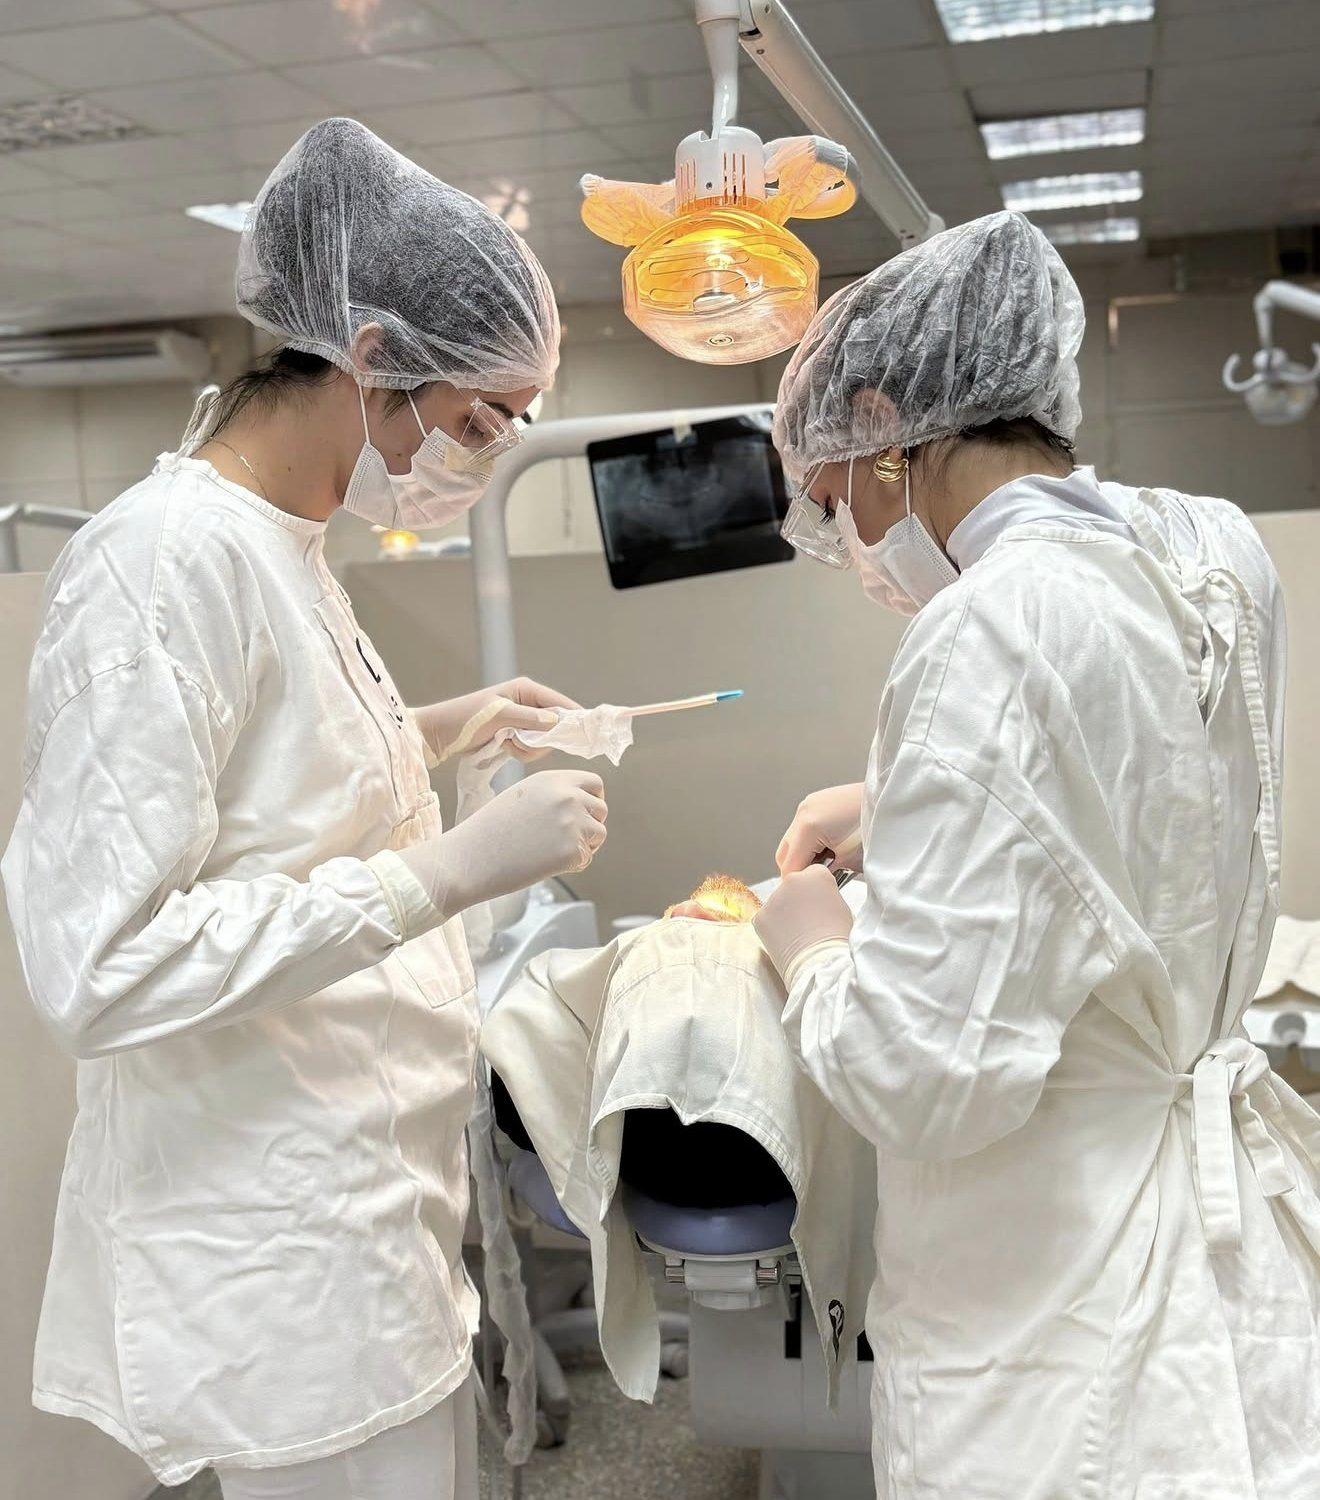
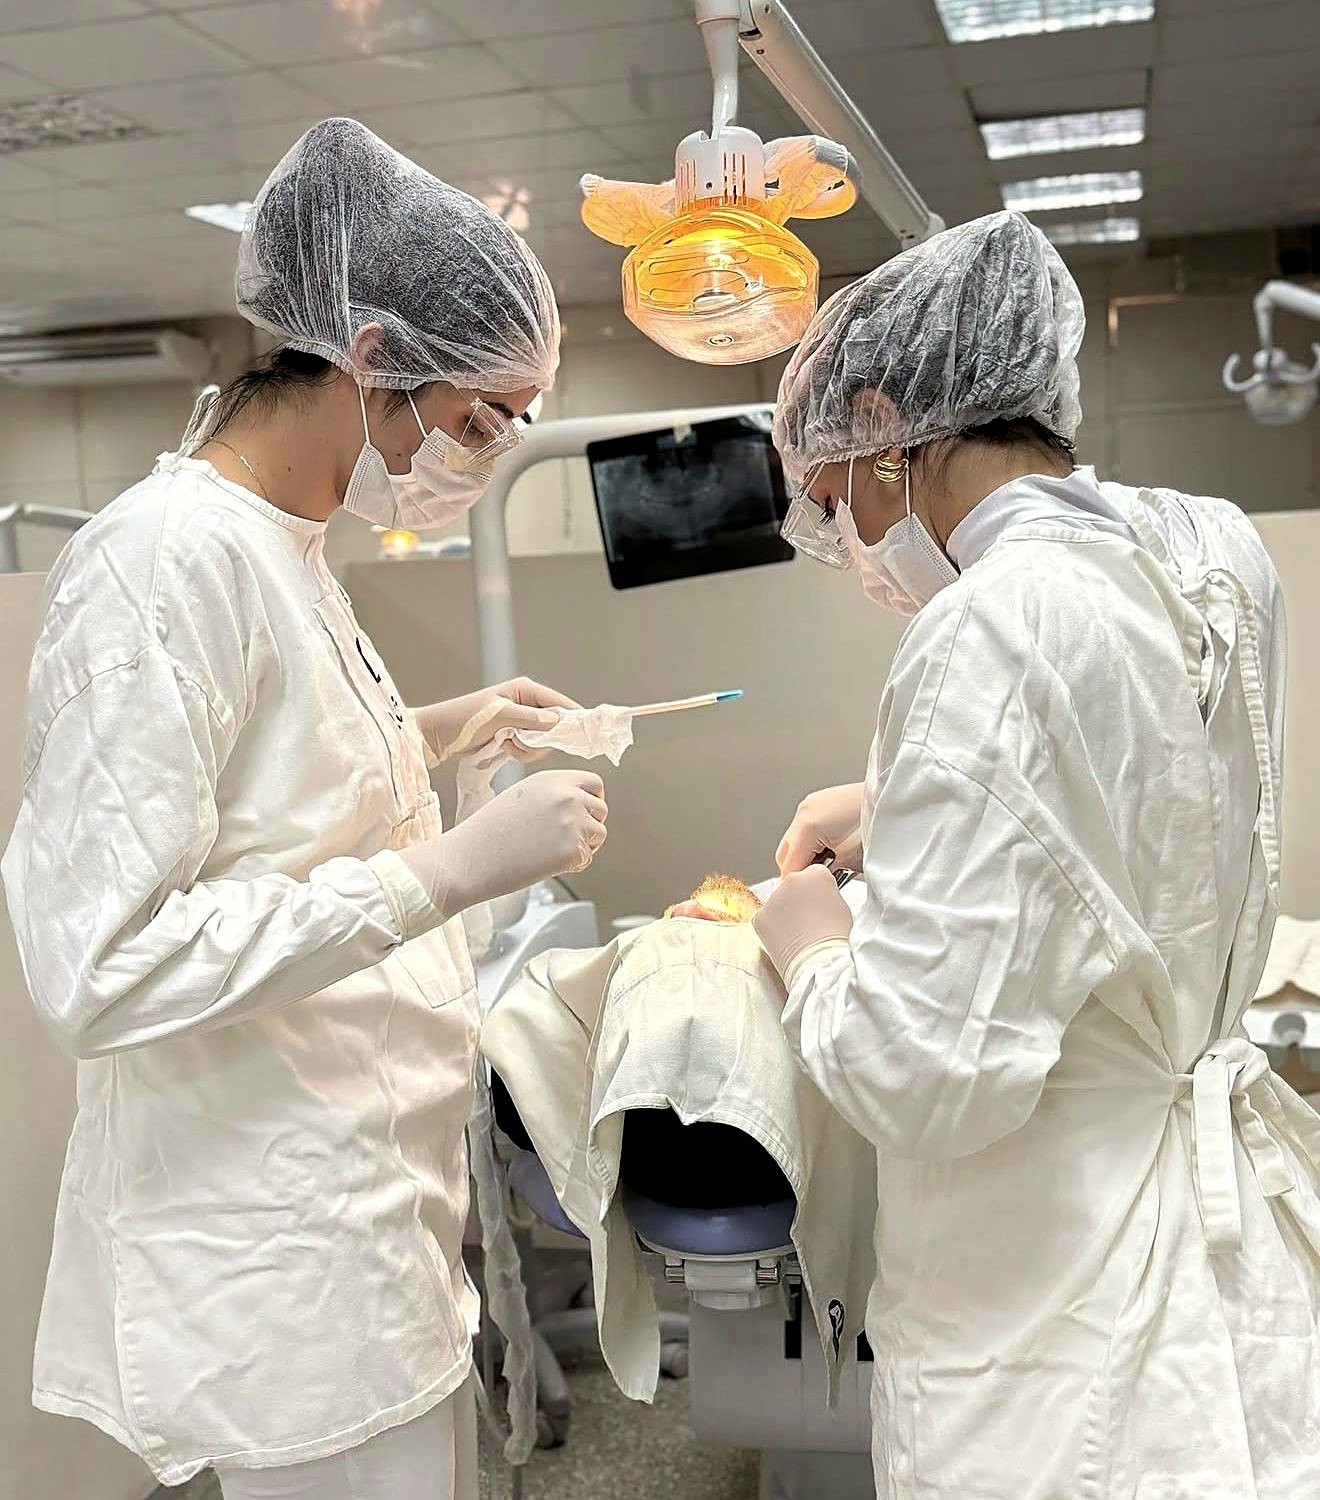
Site Vanessa Marinho: novas fotos tratadas, galeria antes/depois e composições
Claude-Session: https://claude.ai/code/session_01AGZcB6wQbXRaEMirssouDN

Changed region(s): [[0.1864, 0.092, 0.4348, 0.3067], [0.5902, 0.1533, 0.8076, 0.368], [0.528, 0.1227, 0.5591, 0.1533]]

diff --git a/sites/vanessa-marinho/index.html b/sites/vanessa-marinho/index.html
@@ -32,7 +32,7 @@
   *{box-sizing:border-box;margin:0;padding:0}
   html{scroll-behavior:smooth}
   body{font-family:var(--sans);color:var(--ink);background:var(--paper);line-height:1.6;font-weight:400;-webkit-font-smoothing:antialiased;overflow-x:hidden}
-  img{display:block;max-width:100%}
+  img{display:block;max-width:100%;height:auto}
   a{color:inherit}
   .wrap{max-width:var(--max);margin:0 auto;padding:0 24px}
   .eyebrow{font-size:.72rem;letter-spacing:.24em;text-transform:uppercase;font-weight:600;color:var(--brown)}
@@ -97,7 +97,7 @@
   .philo-photo::after{content:"";position:absolute;inset:22px -22px -22px 22px;border:1px solid var(--brown);z-index:-1}
 
   /* PROCEDIMENTOS */
-  .procs{background:var(--ink);color:#fff}
+  .procs{background:var(--ink);color:#fff;overflow:hidden}
   .procs .eyebrow{color:var(--sand)}
   .section-head{display:flex;justify-content:space-between;align-items:end;gap:30px;margin-bottom:56px;flex-wrap:wrap}
   .procs .lead{color:rgba(255,255,255,.65)}
@@ -108,12 +108,29 @@
   .proc h3{font-size:2rem;margin:14px 0 12px}
   .proc p{color:rgba(255,255,255,.65);font-size:.95rem}
 
+  .feature{display:grid;grid-template-columns:1.05fr .95fr;gap:70px;align-items:center;margin-bottom:80px}
+  .feature-media{position:relative}
+  .feature-media .big{width:100%;aspect-ratio:4/5;object-fit:cover;object-position:60% 50%;-webkit-mask-image:radial-gradient(120% 95% at 60% 55%,#000 55%,transparent 100%);mask-image:radial-gradient(120% 95% at 60% 55%,#000 55%,transparent 100%)}
+  .feature-media .small{position:absolute;width:42%;aspect-ratio:1;object-fit:cover;right:-6%;bottom:-8%;border:6px solid var(--ink);box-shadow:0 20px 50px rgba(0,0,0,.5)}
+  .feature-media .label{position:absolute;left:0;top:8%;font-family:var(--serif);font-style:italic;font-size:1.1rem;color:var(--sand);writing-mode:vertical-rl;transform:rotate(180deg);letter-spacing:.08em}
+  .feature h2{margin:16px 0 22px}
+
   /* RESULTADO */
   .result-grid{display:grid;grid-template-columns:.9fr 1.1fr;gap:70px;align-items:center}
-  .ba{position:relative;overflow:hidden;background:#ddd;aspect-ratio:1128/1450;max-width:520px}
-  .ba img{width:100%;height:100%;object-fit:cover;object-position:center 70%}
-  .ba-labels{position:absolute;left:0;right:0;bottom:0;display:grid;grid-template-columns:1fr 1fr;font-size:.7rem;letter-spacing:.2em;text-transform:uppercase;font-weight:600;color:#fff}
-  .ba-labels span{padding:10px 14px;background:linear-gradient(transparent,rgba(0,0,0,.45))}
+  .cases{max-width:560px;width:100%}
+  .case-tabs{display:flex;gap:8px;flex-wrap:wrap;margin-bottom:16px}
+  .case-tabs button{font:inherit;font-size:.8rem;font-weight:500;padding:9px 16px;border-radius:999px;border:1px solid var(--line);background:transparent;color:var(--ink);cursor:pointer;transition:background .2s,color .2s}
+  .case-tabs button[aria-selected=true]{background:var(--ink);color:#fff;border-color:var(--ink)}
+  .ba{position:relative;overflow:hidden;background:#222;aspect-ratio:1320/1079;user-select:none;transition:aspect-ratio .3s;touch-action:pan-y;--p:50%}
+  .ba img{position:absolute;inset:0;width:100%;height:100%;object-fit:cover;pointer-events:none}
+  .ba .before{clip-path:inset(0 calc(100% - var(--p)) 0 0)}
+  .ba .line{position:absolute;top:0;bottom:0;left:var(--p);width:2px;margin-left:-1px;background:#fff;pointer-events:none}
+  .ba .knob{position:absolute;top:50%;left:var(--p);width:46px;height:46px;margin:-23px 0 0 -23px;border-radius:50%;background:#fff;display:grid;place-items:center;box-shadow:0 6px 20px rgba(0,0,0,.3);pointer-events:none;color:var(--ink)}
+  .ba input{position:absolute;inset:0;width:100%;height:100%;opacity:0;cursor:ew-resize;margin:0}
+  .ba .tag{position:absolute;top:14px;font-size:.66rem;letter-spacing:.2em;text-transform:uppercase;font-weight:600;color:#fff;background:rgba(0,0,0,.35);backdrop-filter:blur(6px);padding:6px 10px;pointer-events:none}
+  .ba .tag.l{left:14px}.ba .tag.r{right:14px}
+  .case-cap{display:flex;justify-content:space-between;gap:12px;font-size:.82rem;color:var(--muted);margin-top:12px}
+  .case-cap b{font-family:var(--serif);font-size:1.25rem;font-weight:400;color:var(--ink)}
   .result blockquote{font-family:var(--serif);font-size:clamp(2rem,4vw,3rem);font-weight:300;line-height:1.1;margin:18px 0 24px}
   .result blockquote i{color:var(--brown)}
   .disclaimer{font-size:.78rem;color:var(--muted);margin-top:22px;border-left:2px solid var(--sand);padding-left:12px}
@@ -128,9 +145,11 @@
 
   /* SOBRE */
   .about-grid{display:grid;grid-template-columns:1fr 1fr;gap:70px;align-items:center}
-  .about-photos{max-width:520px}
+  .about-photos{position:relative;max-width:520px;padding:0 18% 12% 0}
   .about-photos img{width:100%;object-fit:cover}
-  .about-photos .a{aspect-ratio:4/5}
+  .about-photos .a{aspect-ratio:4/5;object-position:50% 20%}
+  .about-photos .b{position:absolute;right:0;bottom:0;width:46%;aspect-ratio:4/5;border:6px solid var(--paper);box-shadow:0 20px 40px rgba(0,0,0,.18)}
+  .about-photos figcaption{position:absolute;left:0;bottom:0;max-width:48%}
   .about-photos figcaption{font-size:.75rem;color:var(--muted);margin-top:8px}
   .about p{margin-bottom:18px;font-size:1.05rem}
   .creds{list-style:none;margin-top:28px;border-top:1px solid var(--line)}
@@ -183,7 +202,9 @@
     .step-grid{grid-template-columns:1fr 1fr}
     .philo-photo{max-width:480px}
     .philo-photo::after{inset:16px -12px -16px 12px}
-    .ba{margin:0 auto}
+    .cases{margin:0 auto}
+    .feature{grid-template-columns:1fr;gap:56px}
+    .feature-media{max-width:520px}
     .nav-links{position:fixed;inset:74px 0 auto;background:rgba(15,14,13,.97);flex-direction:column;gap:0;padding:10px 24px 24px;display:none}
     .nav-links.open{display:flex}
     .nav-links li{width:100%;border-bottom:1px solid rgba(255,255,255,.08)}
@@ -276,12 +297,17 @@
   <!-- PROCEDIMENTOS -->
   <section class="procs" id="procedimentos">
     <div class="wrap">
-      <div class="section-head reveal">
-        <div>
+      <div class="feature">
+        <figure class="feature-media reveal">
+          <span class="label">Rinomodelação</span>
+          <img class="big" src="img/rino-arte.jpg" alt="Perfil de paciente após rinomodelação" loading="lazy" width="1320" height="1476">
+          <img class="small" src="img/labios-detalhe.jpg" alt="Lábios após preenchimento labial" loading="lazy" width="1320" height="1233">
+        </figure>
+        <div class="reveal">
           <span class="eyebrow">Procedimentos</span>
-          <h2 style="margin-top:16px">Detalhes que mudam<br>a forma como você<br>enxerga o seu perfil.</h2>
+          <h2>Detalhes que mudam a forma como você enxerga o seu perfil.</h2>
+          <p class="lead">E eles podem ser mais sutis do que você imagina. Resultados que acompanham os seus traços sem disputar atenção com eles — cada protocolo é planejado de forma individual.</p>
         </div>
-        <p class="lead">Resultados sutis, que acompanham os seus traços sem disputar atenção com eles. Cada protocolo é planejado de forma individual.</p>
       </div>
       <div class="proc-grid">
         <article class="proc reveal"><span class="n">01</span><h3>Rinomodelação</h3><p>Ajuste do dorso e da ponta do nariz com ácido hialurônico, sem cortes, para um perfil mais harmônico.</p></article>
@@ -297,16 +323,28 @@
   <!-- RESULTADOS -->
   <section class="result" id="resultados">
     <div class="wrap result-grid">
-      <figure class="ba reveal">
-        <img src="img/rino-antes-depois.jpg" alt="Antes e depois de rinomodelação realizada pela Dra. Vanessa Marinho" loading="lazy" width="1320" height="2339">
-        <div class="ba-labels"><span>Antes</span><span>Depois</span></div>
-      </figure>
+      <div class="cases reveal">
+        <div class="case-tabs" role="tablist" aria-label="Casos">
+          <button role="tab" aria-selected="true" data-case="0">Rinomodelação</button>
+          <button role="tab" aria-selected="false" data-case="1">Rinomodelação II</button>
+          <button role="tab" aria-selected="false" data-case="2">Lábios</button>
+        </div>
+        <div class="ba" id="ba">
+          <img class="after" alt="Depois" src="img/rino2-depois.jpg">
+          <img class="before" alt="Antes" src="img/rino2-antes.jpg">
+          <span class="tag l">Antes</span><span class="tag r">Depois</span>
+          <span class="line"></span>
+          <span class="knob"><svg width="20" height="20" viewBox="0 0 24 24" fill="none" stroke="currentColor" stroke-width="2"><path d="M9 6l-6 6 6 6M15 6l6 6-6 6"/></svg></span>
+          <input type="range" min="0" max="100" value="50" aria-label="Arraste para comparar antes e depois">
+        </div>
+        <div class="case-cap"><b id="caseTitle">Rinomodelação</b><span id="caseNote">Arraste para comparar</span></div>
+      </div>
       <div class="reveal">
         <span class="eyebrow">Resultados</span>
         <blockquote>Tão sutil que parece que <i>sempre foi seu.</i></blockquote>
         <p class="lead">“Dra., quero fazer, mas quero que fique discreto.” Pode ficar tranquila: esse pedido já faz parte do meu planejamento. A ideia é realçar o que é seu — nunca transformar você em outra pessoa.</p>
         <a class="btn btn-primary js-wa" style="margin-top:30px" href="#" data-msg="Olá, Dra. Vanessa! Vi os resultados no site e gostaria de saber qual procedimento é indicado para mim.">Quero minha avaliação</a>
-        <p class="disclaimer">Imagem de paciente real, publicada com autorização. Os resultados variam de pessoa para pessoa e dependem de avaliação individual.</p>
+        <p class="disclaimer">Imagens de pacientes reais, publicadas com autorização. Os resultados variam de pessoa para pessoa e dependem de avaliação individual.</p>
       </div>
     </div>
   </section>
@@ -333,8 +371,9 @@
   <section class="about" id="sobre">
     <div class="wrap about-grid">
       <figure class="about-photos reveal">
-        <img class="a" src="img/cirurgia.jpg" alt="Dra. Vanessa Marinho durante cirurgia de extração de siso" loading="lazy" width="1320" height="1500">
-        <figcaption>Registros de cirurgia — extração de siso.</figcaption>
+        <img class="a" src="img/atendimento.jpg" alt="Dra. Vanessa Marinho realizando procedimento de harmonização facial" loading="lazy" width="1320" height="1541">
+        <img class="b" src="img/cirurgia.jpg" alt="Dra. Vanessa Marinho durante cirurgia de extração de siso" loading="lazy" width="1320" height="1500">
+        <figcaption>Na harmonização e na cirurgia: técnica e cuidado.</figcaption>
       </figure>
       <div class="reveal">
         <span class="eyebrow">Minha trajetória</span>
@@ -419,6 +458,25 @@
   const btn = document.getElementById("menuBtn"), links = document.getElementById("navLinks");
   btn.addEventListener("click", () => { const o = links.classList.toggle("open"); btn.setAttribute("aria-expanded", o); });
   links.querySelectorAll("a").forEach(a => a.addEventListener("click", () => { links.classList.remove("open"); btn.setAttribute("aria-expanded", false); }));
+
+  const CASES = [
+    {t:"Rinomodelação", a:"img/rino2-antes.jpg", d:"img/rino2-depois.jpg", pos:"50% 50%", r:"1320/1079"},
+    {t:"Rinomodelação", a:"img/rino1-antes.jpg", d:"img/rino1-depois.jpg", pos:"50% 55%", r:"4/5"},
+    {t:"Preenchimento labial · 1 ml", a:"img/labios-antes.jpg", d:"img/labios-depois.jpg", pos:"50% 50%", r:"1320/1022"}
+  ];
+  const ba = document.getElementById("ba"), range = ba.querySelector("input");
+  const setP = v => ba.style.setProperty("--p", v + "%");
+  range.addEventListener("input", () => setP(range.value));
+  document.querySelectorAll(".case-tabs button").forEach(b => b.addEventListener("click", () => {
+    const c = CASES[b.dataset.case];
+    document.querySelectorAll(".case-tabs button").forEach(x => x.setAttribute("aria-selected", x === b));
+    ba.querySelector(".after").src = c.d; ba.querySelector(".before").src = c.a;
+    ba.querySelectorAll("img").forEach(i => i.style.objectPosition = c.pos);
+    ba.style.aspectRatio = c.r;
+    document.getElementById("caseTitle").textContent = c.t;
+    range.value = 50; setP(50);
+  }));
+  CASES.forEach(c => { new Image().src = c.a; new Image().src = c.d; });
 
   const io = new IntersectionObserver(es => es.forEach(e => { if (e.isIntersecting) { e.target.classList.add("in"); io.unobserve(e.target); } }), {threshold:.12});
   document.querySelectorAll(".reveal").forEach(el => io.observe(el));
